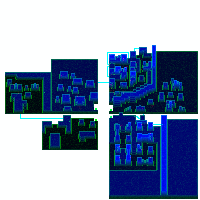
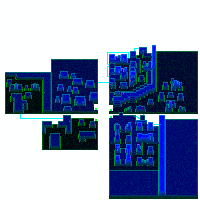
shift the level 6 victory area left

Changed region(s): [[0.78, 0.57, 0.84, 0.99]]

diff --git a/Source/GameState/GameState.cpp b/Source/GameState/GameState.cpp
@@ -351,7 +351,7 @@ void GameState::render(int ticksTime) {
 		renderTextDisplay(gameTicksTime);
 
 	//TODO: real win condition
-	int winTileX = 162;
+	int winTileX = 160;
 	int winTileY = 124;
 	float px = playerState.get()->getRenderCenterWorldX(gameTicksTime);
 	float py = playerState.get()->getRenderCenterWorldY(gameTicksTime);
